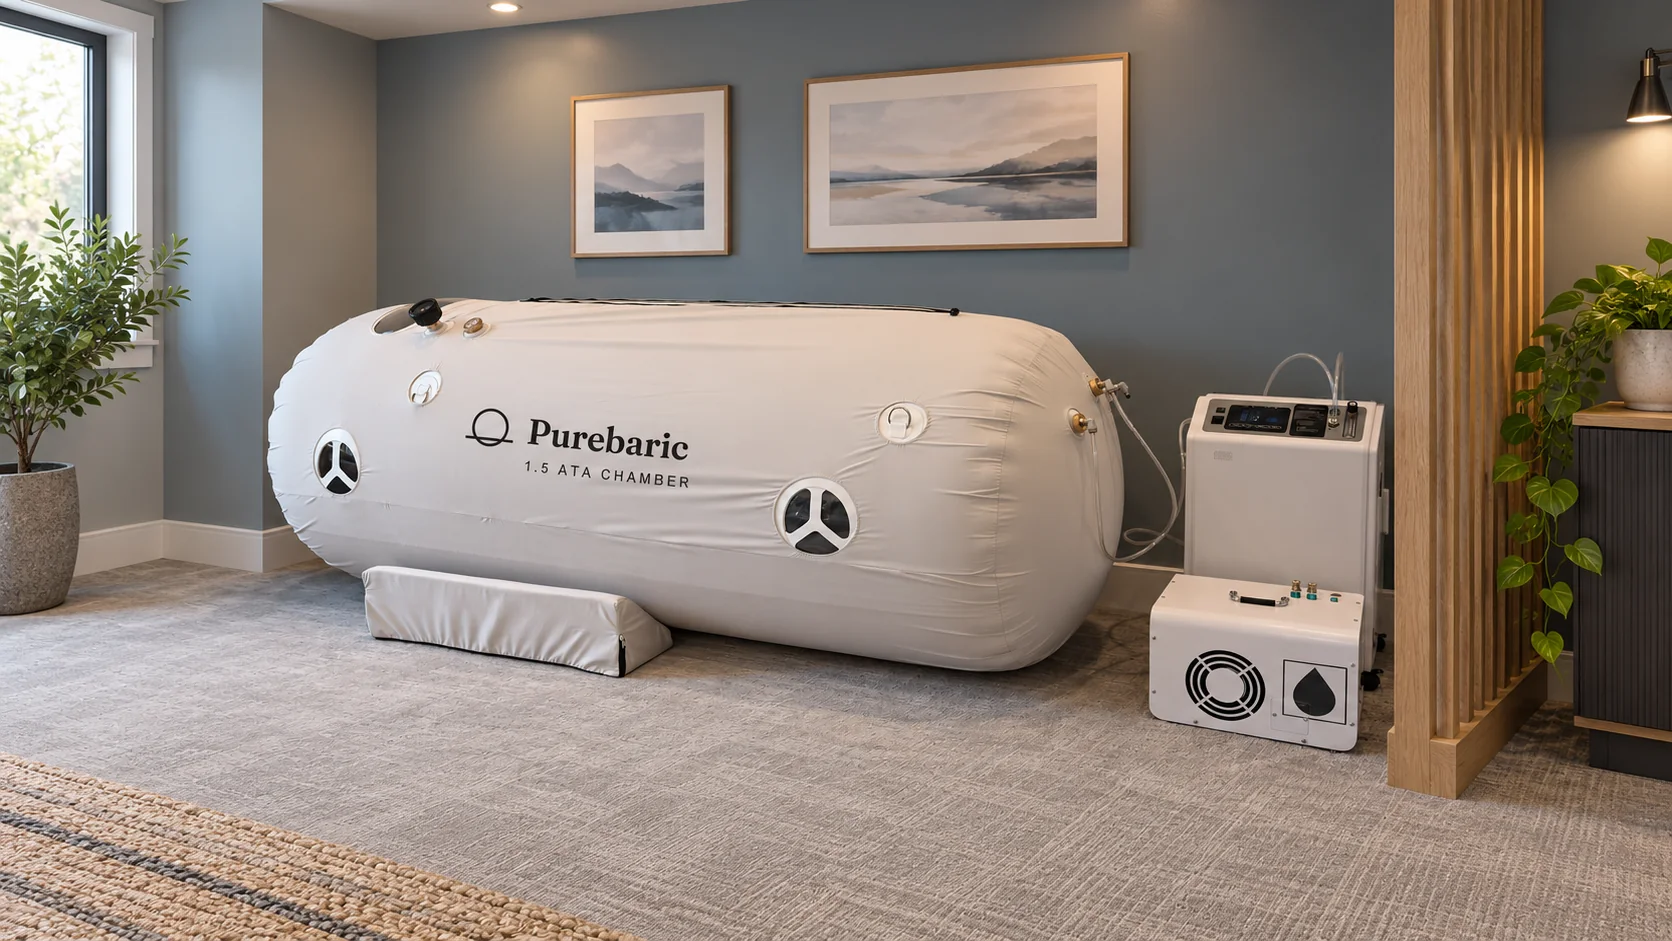
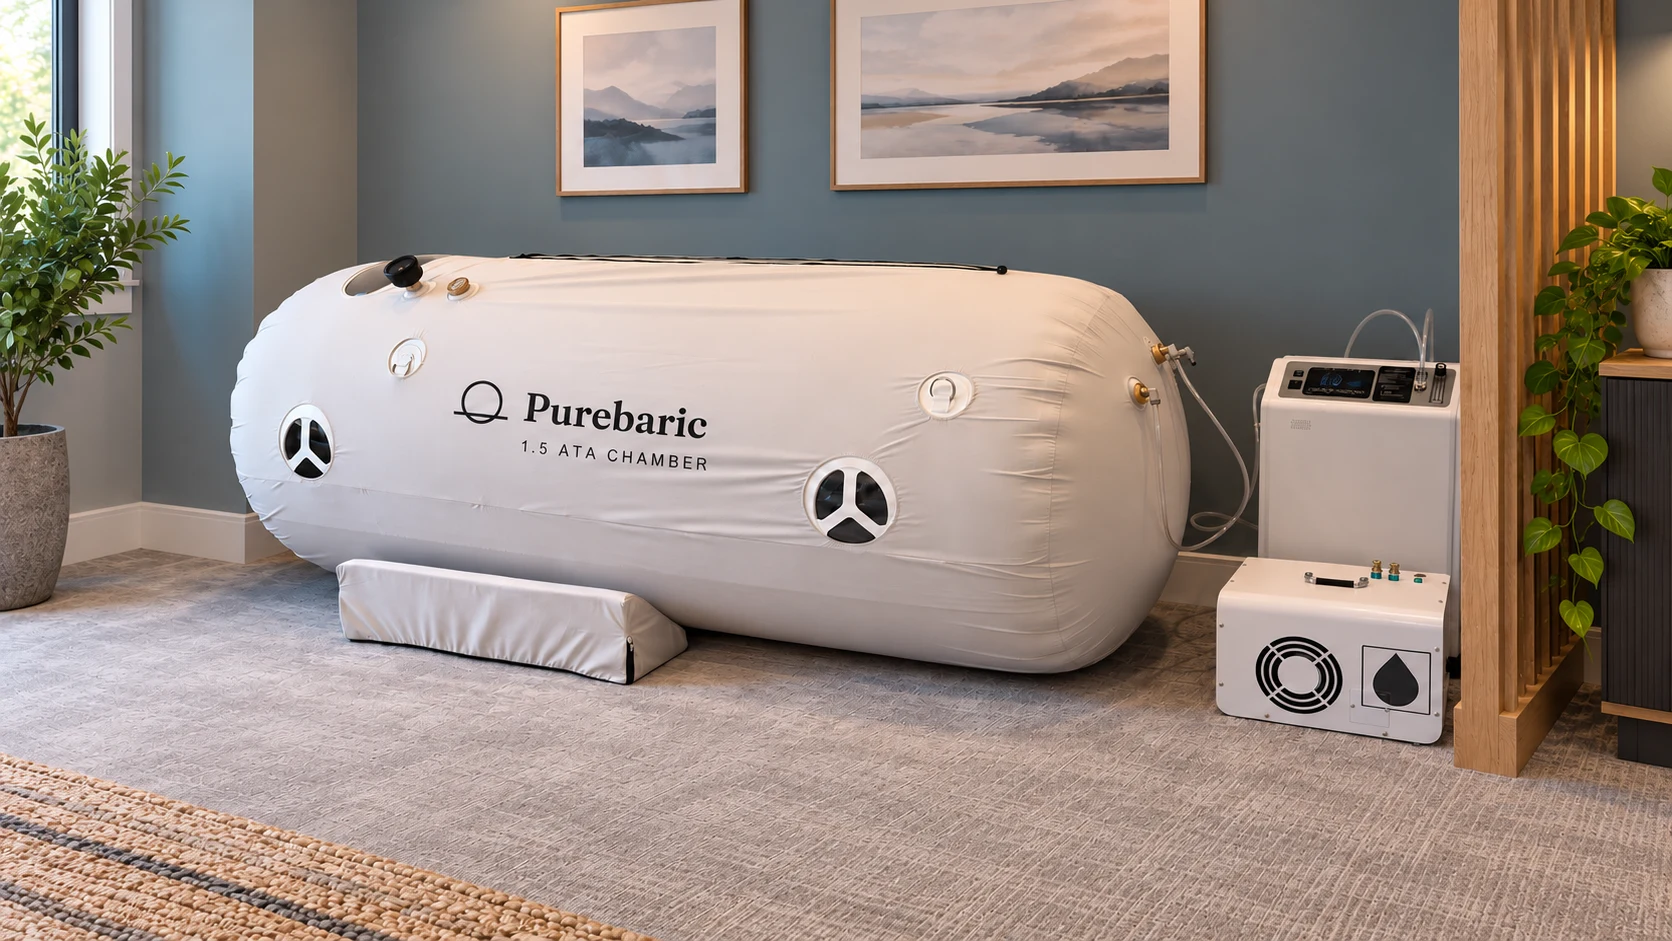
Tighten home carousel chamber crop

diff --git a/index.html b/index.html
@@ -273,7 +273,7 @@ input[type=range]::-moz-range-thumb{width:20px;height:20px;border-radius:50%;bac
     <img class="slide active" src="/images/chamber-living.webp?v=3" width="1672" height="941" fetchpriority="high" alt="Purebaric hyperbaric chamber set up in a Utah home">
     <img class="slide" src="/images/chamber-den.webp" width="1672" height="941" loading="lazy" alt="Purebaric hyperbaric chamber in a den with a navy accent wall">
     <img class="slide" src="/images/chamber-homegym.webp" width="1672" height="941" loading="lazy" alt="Purebaric hyperbaric chamber in a home gym">
-    <img class="slide" src="/images/chamber-basement.webp" width="1672" height="941" loading="lazy" alt="Purebaric hyperbaric chamber in a finished basement room">
+    <img class="slide" src="/images/chamber-basement.webp?v=2" width="1672" height="941" loading="lazy" alt="Purebaric hyperbaric chamber in a finished basement room">
     <img class="slide" src="/images/chamber-gym.webp" width="1672" height="941" loading="lazy" alt="Purebaric hyperbaric chamber set up in a modern gym">
     <div class="hero-dots" id="heroDots" aria-label="Hero photos"></div>
     <button class="gallery-pill" onclick="lbOpen(0)">▦ View all 5 photos</button>
@@ -545,7 +545,7 @@ function checkZip(s){s=s||'';var el=document.getElementById('zip'+s),n=document.
 
 
 /* photo lightbox */
-var LBI=['/images/chamber-living.webp?v=3','/images/chamber-den.webp','/images/chamber-homegym.webp','/images/chamber-basement.webp','/images/chamber-gym.webp'];
+var LBI=['/images/chamber-living.webp?v=3','/images/chamber-den.webp','/images/chamber-homegym.webp','/images/chamber-basement.webp?v=2','/images/chamber-gym.webp'];
 var lbi=0;
 function lbShow(){document.getElementById('lbImg').src=LBI[lbi];document.getElementById('lbCount').textContent=(lbi+1)+' / '+LBI.length;}
 function lbOpen(i){lbi=i||0;lbShow();document.getElementById('lb').hidden=false;}
